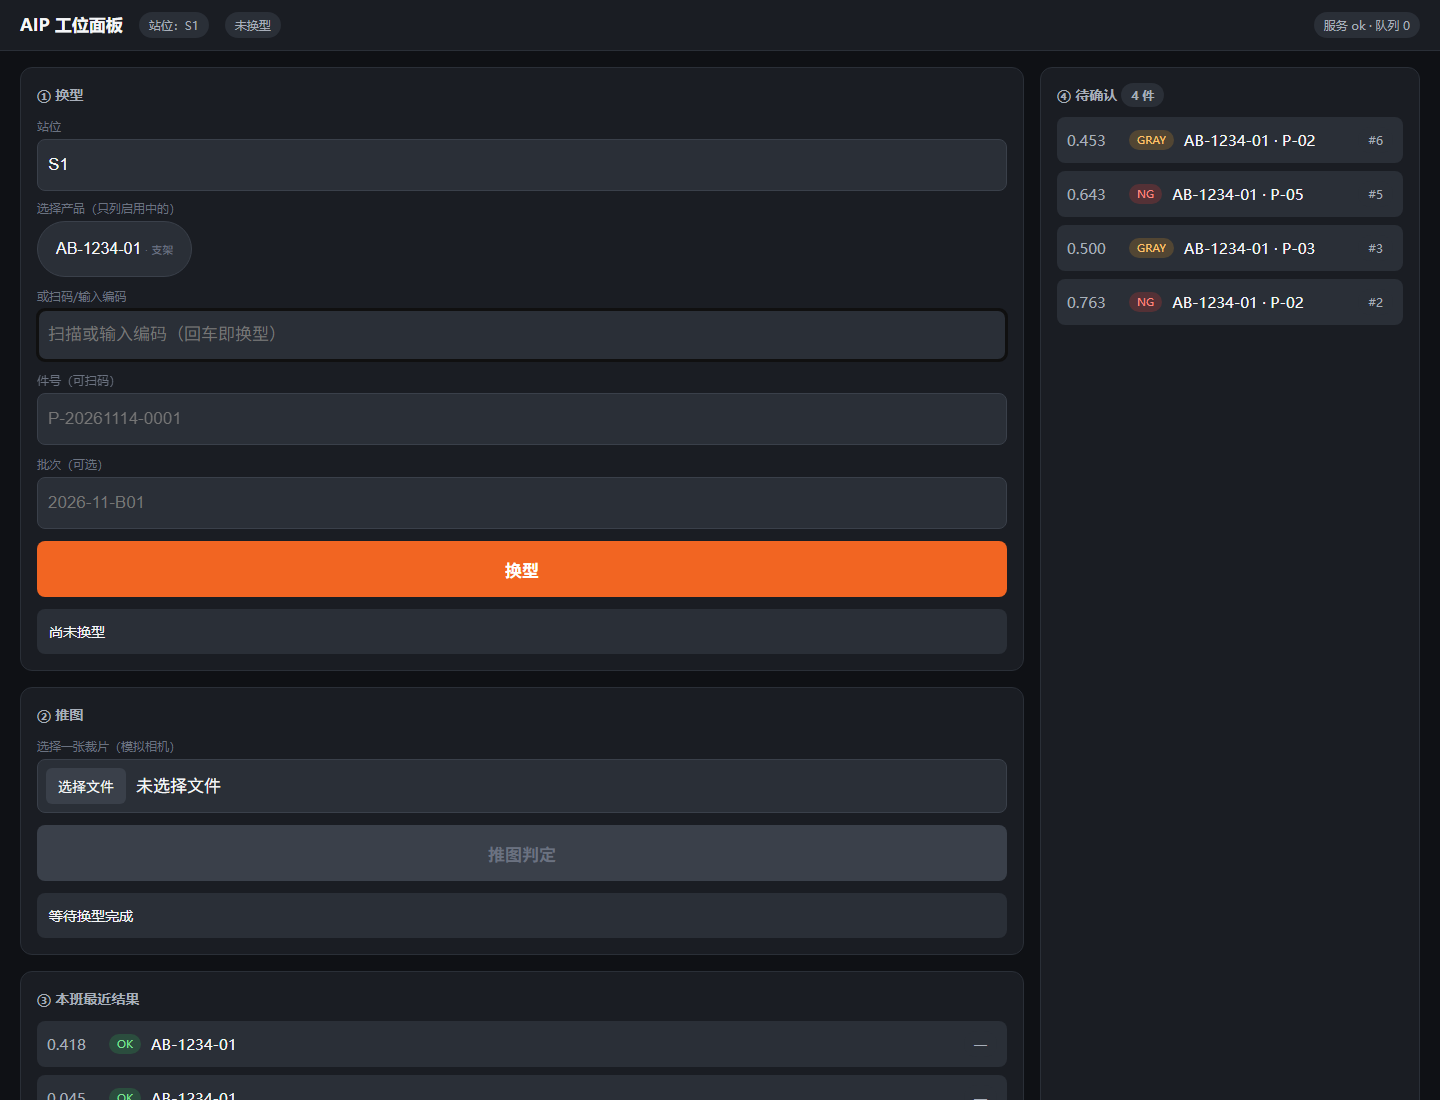
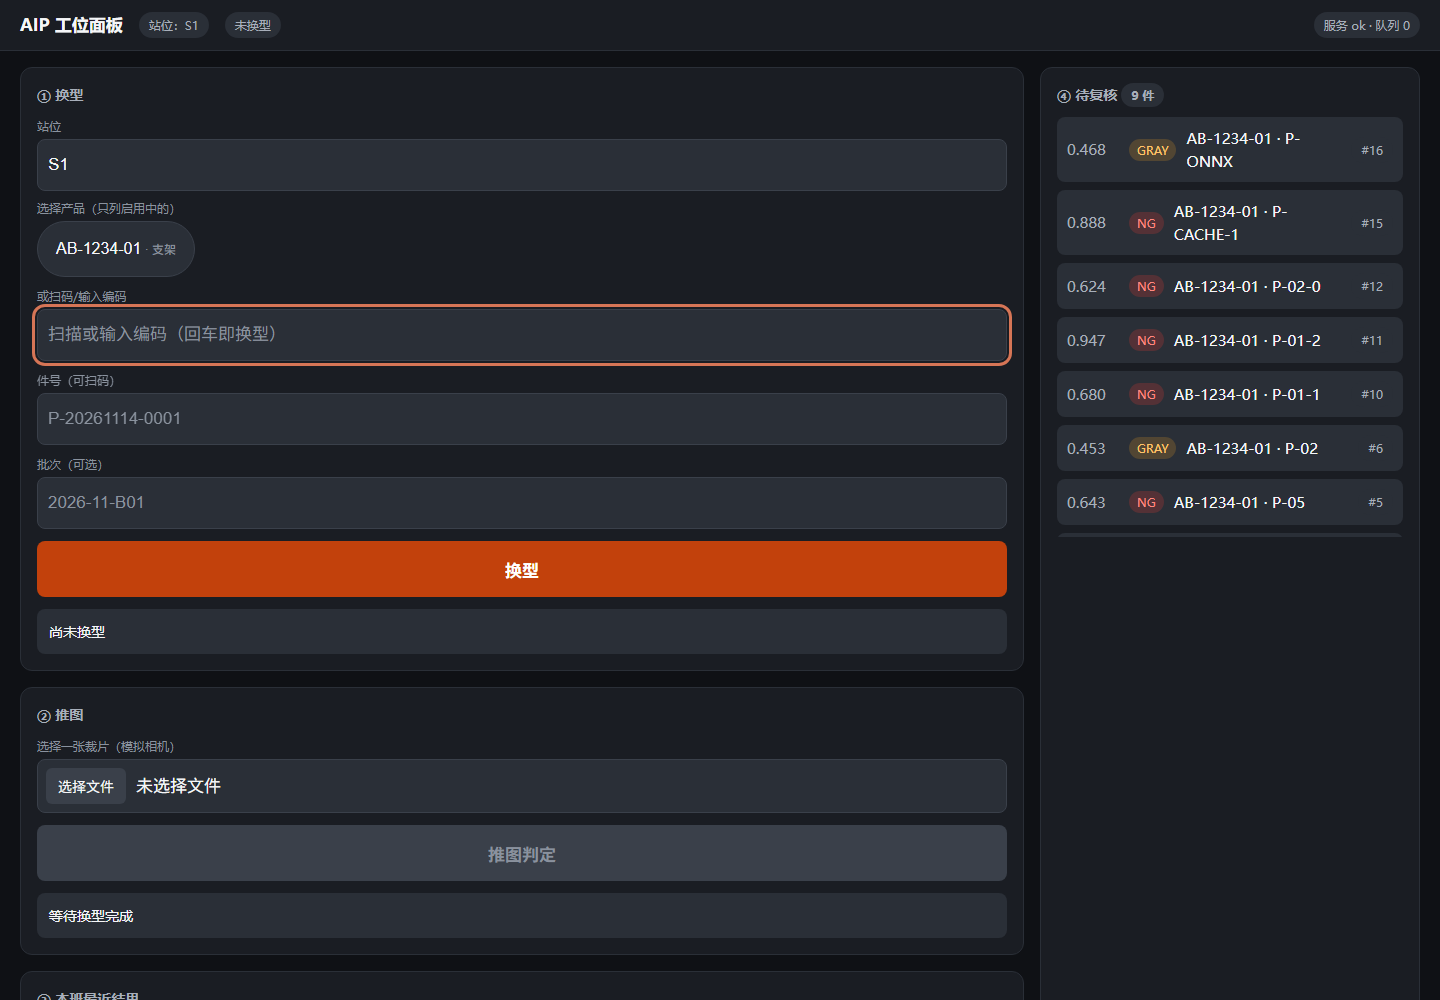
fix: 工位面板对比度/焦点/标签/播报/对话框语义；冒烟覆盖 /panel

diff --git a/aip/web/panel.html b/aip/web/panel.html
@@ -6,8 +6,10 @@
 <meta name="color-scheme" content="dark">
 <title>AIP 工位面板</title>
 <style>
-  :root{color-scheme:dark;--pri:#F26522;--ok:#34C759;--warn:#F5A623;--bad:#FF3B30;--g0:#0F1115;--g1:#1A1D23;--g2:#2A2F37;--g3:#3A404A;--t1:#F5F6F8;--t2:#A8AFBA;--t3:#6B7280}
+  :root{color-scheme:dark;--pri:#C2410C;--ok:#34C759;--warn:#F5A623;--bad:#FF3B30;--g0:#0F1115;--g1:#1A1D23;--g2:#2A2F37;--g3:#3A404A;--t1:#F5F6F8;--t2:#A8AFBA;--t3:#8A929E}
   *{box-sizing:border-box}
+  :focus-visible{outline:3px solid color-mix(in oklab, var(--pri) 75%, white);outline-offset:2px;border-radius:8px}
+  ::placeholder{color:var(--t3);opacity:1}
   body{margin:0;background:var(--g0);color:var(--t1);font:15px/1.5 "Microsoft YaHei",system-ui,sans-serif}
   header{display:flex;align-items:center;gap:16px;padding:12px 20px;background:var(--g1);border-bottom:1px solid var(--g2)}
   header h1{font-size:17px;margin:0;font-weight:600}
@@ -16,22 +18,23 @@
   main{display:grid;grid-template-columns:1fr 380px;gap:16px;padding:16px 20px}
   section{background:var(--g1);border:1px solid var(--g2);border-radius:12px;padding:16px}
   h2{font-size:14px;margin:0 0 12px;color:var(--t2);font-weight:600}
-  label{display:block;font-size:12px;color:var(--t3);margin:8px 0 4px}
+  label,.field-label{display:block;font-size:12px;color:var(--t3);margin:8px 0 4px}
   input,select{width:100%;padding:10px;border-radius:8px;border:1px solid var(--g3);background:var(--g2);color:var(--t1);font-size:15px}
   button{cursor:pointer;border:0;border-radius:8px;padding:12px 16px;font-size:15px;font-weight:600;color:#fff;background:var(--pri)}
   button.ghost{background:var(--g3)}
-  button.ok{background:var(--ok)}
-  button.bad{background:var(--bad)}
-  button:disabled{background:var(--g3);color:var(--t3);cursor:not-allowed}
+  button.ok{background:#147A32}
+  button.bad{background:#C62828}
+  button.warn{background:#A86500}
+  button:disabled{background:var(--g3);color:var(--t2);cursor:not-allowed}
   input[type=file]{padding:8px}
   input[type=file]::file-selector-button{background:var(--g3);color:var(--t1);border:0;border-radius:6px;padding:8px 12px;margin-right:10px;cursor:pointer;font-size:14px}
   .row{display:flex;gap:8px;margin-top:12px}
   .row button{flex:1}
   .chips{display:flex;flex-wrap:wrap;gap:8px;min-height:42px;align-items:center}
   .chip{background:var(--g2);border:1px solid var(--g3);color:var(--t1);border-radius:999px;padding:8px 14px;font-size:14px;font-weight:500}
-  .chip small{color:var(--t3);font-size:11px}
+  .chip small{color:var(--t3);font-size:12px}
   .chip.on{background:var(--pri);border-color:var(--pri);color:#fff}
-  #offlineBar{background:var(--bad);color:#fff;padding:14px 20px;font-size:16px;font-weight:600;text-align:center}
+  #offlineBar{background:#C62828;color:#fff;padding:14px 20px;font-size:16px;font-weight:600;text-align:center}
   .banner{margin-top:12px;border-radius:10px;padding:18px;font-size:22px;font-weight:700;text-align:center;background:var(--g2)}
   .banner small{display:block;font-size:13px;font-weight:400;color:var(--t2);margin-top:6px}
   .banner.ok{background:color-mix(in oklab,var(--ok) 22%,transparent);color:var(--ok)}
@@ -47,7 +50,7 @@
   .item{display:flex;align-items:center;gap:10px;padding:10px;border-radius:8px;background:var(--g2);cursor:pointer}
   .item:hover{outline:1px solid var(--g3)}
   .item .score{font-variant-numeric:tabular-nums;color:var(--t2);width:52px}
-  .tag{font-size:11px;padding:2px 8px;border-radius:999px}
+  .tag{font-size:12px;padding:2px 8px;border-radius:999px}
   .tag.ng{background:rgba(255,59,48,.2);color:#FF8A80}
   .tag.gray{background:rgba(245,166,35,.2);color:#FFC46B}
   .tag.ok{background:rgba(52,199,89,.2);color:#7BE495}
@@ -70,34 +73,34 @@
   <span class="pill" id="stationPill">站位：S1</span>
   <span class="pill" id="modelPill">未换型</span>
   <div class="spacer"></div>
-  <span class="pill" id="healthPill">健康检查中…</span>
+  <span class="pill" id="healthPill" role="status" aria-live="polite">健康检查中…</span>
 </header>
-<div id="offlineBar" hidden>服务已断开 —— 请停止推图，联系技师</div>
+<div id="offlineBar" role="alert" hidden>服务已断开 —— 请停止推图，联系技师</div>
 
 <main>
   <div style="display:flex;flex-direction:column;gap:16px">
     <section>
       <h2>① 换型</h2>
-      <label>站位</label>
+      <label for="station">站位</label>
       <input id="station" value="S1">
-      <label>选择产品（只列启用中的）</label>
-      <div class="chips" id="codePick"><span class="muted">加载中…</span></div>
-      <label style="margin-top:10px">或扫码/输入编码</label>
+      <span class="field-label" id="codePickLabel">选择产品（只列启用中的）</span>
+      <div class="chips" id="codePick" role="group" aria-labelledby="codePickLabel"><span class="muted">加载中…</span></div>
+      <label for="code" style="margin-top:10px">或扫码/输入编码</label>
       <input id="code" placeholder="扫描或输入编码（回车即换型）" autofocus>
-      <label style="margin-top:10px">件号（可扫码）</label>
+      <label for="partNo" style="margin-top:10px">件号（可扫码）</label>
       <input id="partNo" placeholder="P-20261114-0001">
-      <label style="margin-top:10px">批次（可选）</label>
+      <label for="batchNo" style="margin-top:10px">批次（可选）</label>
       <input id="batchNo" placeholder="2026-11-B01">
       <div class="row"><button id="btnLoad">换型</button></div>
-      <div class="status" id="loadStatus">尚未换型</div>
+      <div class="status" id="loadStatus" role="status" aria-live="polite">尚未换型</div>
     </section>
 
     <section>
       <h2>② 推图</h2>
-      <label>选择一张裁片（模拟相机）</label>
+      <label for="file">选择一张裁片（模拟相机）</label>
       <input type="file" id="file" accept="image/*">
       <div class="row"><button id="btnInfer" disabled>推图判定</button></div>
-      <div class="status" id="inferStatus">等待换型完成</div>
+      <div class="status" id="inferStatus" role="status" aria-live="polite">等待换型完成</div>
     </section>
 
     <section>
@@ -107,19 +110,19 @@
   </div>
 
   <section>
-    <h2>④ 待复核 <span class="pill" id="pendingCount">0 件</span></h2>
+    <h2>④ 待复核 <span class="pill" id="pendingCount" aria-live="polite">0 件</span></h2>
     <div class="queue" id="pending"><div class="empty">没有待复核的件</div></div>
   </section>
 </main>
 
-<dialog id="reviewDlg">
-  <h2 style="margin-bottom:12px">确认这一件</h2>
+<dialog id="reviewDlg" aria-labelledby="dlgTitle">
+  <h2 id="dlgTitle" style="margin-bottom:12px">确认这一件</h2>
   <div class="dialog-body">
     <div class="preview" id="preview"><span class="muted">加载裁片中…</span></div>
     <div>
       <div class="kv" id="detail"></div>
-      <label style="margin-top:14px">改判理由（仅在改判时选）</label>
-      <div class="reasons" id="reasons"></div>
+      <span class="field-label" id="reasonsLabel" style="margin-top:14px">改判理由（仅在改判时选）</span>
+      <div class="reasons" id="reasons" role="group" aria-labelledby="reasonsLabel"></div>
       <div class="row" style="margin-top:16px">
         <button class="ok" id="btnAccept">确认</button>
       </div>
@@ -271,7 +274,7 @@ async function openReview(resultId) {
   selectedReason = null;
   const labelText = r.label === "ok" ? "OK" : (r.label === "ng" ? "NG" : "灰区");
   $("btnAccept").textContent = `确认 ${labelText}（保持系统结论）`;
-  $("btnAccept").className = r.label === "ok" ? "ok" : "bad";
+  $("btnAccept").className = r.label === "ok" ? "ok" : (r.label === "ng" ? "bad" : "warn");
   $("btnFlip").disabled = true;
   $("btnFlip").textContent = "改判（先选理由）";
   $("reasons").innerHTML = REASONS.map(x => `<button data-r="${x}">${x}</button>`).join("");

diff --git a/docs/report/ui-ux-review-2026-11-15.md b/docs/report/ui-ux-review-2026-11-15.md
@@ -94,4 +94,27 @@
 | 4 | 切页加载态 | 顶部 3px 进度条 + `#view[aria-busy]`，`finally` 收尾 | 冒烟通过，`aria-busy=false` 收尾正确 |
 | 5 | 字号 + 等宽数字 | 标签/表单 label/图注 11px → 12px；`td,th` 加 `tabular-nums` | 静态检查通过 |
 
-回归：224 个测试全绿；10 个页面 CDP 冒烟通过。
+回归：224 个测试全绿；11 个页面（10 后台 + 工位面板）CDP 冒烟通过。
+
+---
+
+## 工位面板（panel.html）修复（2026-11-15，已合入）
+
+工位面板是常亮深色触屏终端，单独体检后修了以下项：
+
+| 项 | 改前 | 改后 | 验证 |
+|---|---|---|---|
+| 主按钮白字橙底 | `#F26522`，3.15 ❌ | `#C2410C`，**5.18** | CDP 计算色 `rgb(194,65,12)` |
+| 次要文字 | `#6B7280` on `#1A1D23`，3.49 ❌ | `#8A929E`，**5.37** | 计算值确认 |
+| 确认（OK）按钮 | `#34C759` 白字 2.22 ❌ | `#147A32`，**5.44** | — |
+| 改判（NG）按钮 / 断线横幅 | `#FF3B30` 白字 3.55 ❌ | `#C62828`，**5.62** | `rgb(198,40,40)` |
+| 灰区确认按钮 | 误用红色（语义错） | 新增 `button.warn` `#A86500`，4.64 | 截图确认琥珀色 |
+| 键盘焦点 | 无 focus 样式 | `:focus-visible` 3px 品牌色外环 | 截图可见 |
+| 表单标签 | `<label>` 无 `for`，读屏不关联 | 补 `for/id`，chip 组与理由组用 `role=group` + `aria-labelledby` | CDP 实测 5 个绑定 |
+| 状态播报 | 无 | 健康/换型/推图/待复核 4 处 `role=status`/`aria-live`；断线横幅 `role=alert` | 实测 4 个 live region |
+| 对话框 | 无无障碍名 | `aria-labelledby="dlgTitle"` | 实测已绑定 |
+| 字号 | 标签 11px | 12px | — |
+
+触控尺寸本就达标（按钮 56px、输入 52px），本次未改。
+
+回归：`scripts/ui_smoke.mjs` 现在同时检查 `/panel`，共 11 个页面。
